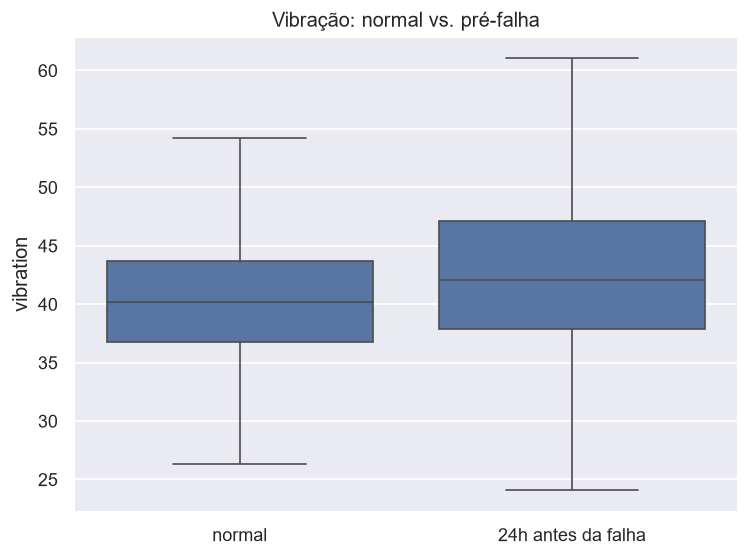
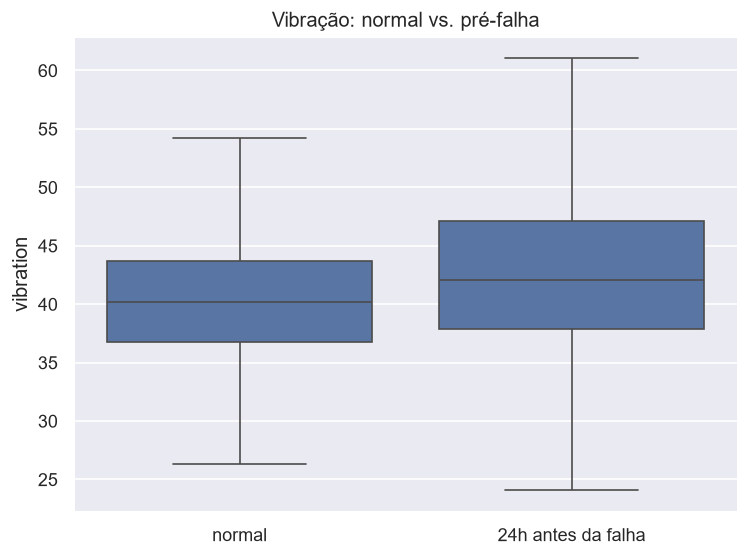
README: cabeçalho da ordem 3/49 e cursos da etapa
Adiciona o bloco "Nº 3 de 49" e a lista de cursos da Alura que caem nesta
etapa. As quatro figuras entram regravadas: mesmo dado e mesmo gráfico,
diferença de 1 a 2 px de largura por nova renderização do matplotlib.

Changed region(s): [[0.3685, 0.0305, 0.737, 0.061], [0.6449, 0.9461, 0.8598, 0.9767], [0.2764, 0.9461, 0.3685, 0.9767]]

diff --git a/README.md b/README.md
@@ -1,5 +1,10 @@
 # P03. Explorando dados de sensores industriais
 
+**Nº 3 de 49 na ordem de execução.** ID do projeto: P03.
+
+**Cursos da Alura a fazer antes deste projeto (todos os que caem aqui na ordem das 4 carreiras):**
+- CD/N1-01 a 03 — Pandas: conhecendo a biblioteca, I/O de arquivos, seleção e agrupamento
+
 Análise exploratória de um ano de telemetria de 100 máquinas industriais. A pergunta que guia
 o projeto é simples: os sensores mudam de comportamento antes de uma falha? Se mudam, dá pra
 construir um modelo de manutenção preditiva; se não, a falha é imprevisível a partir desses
